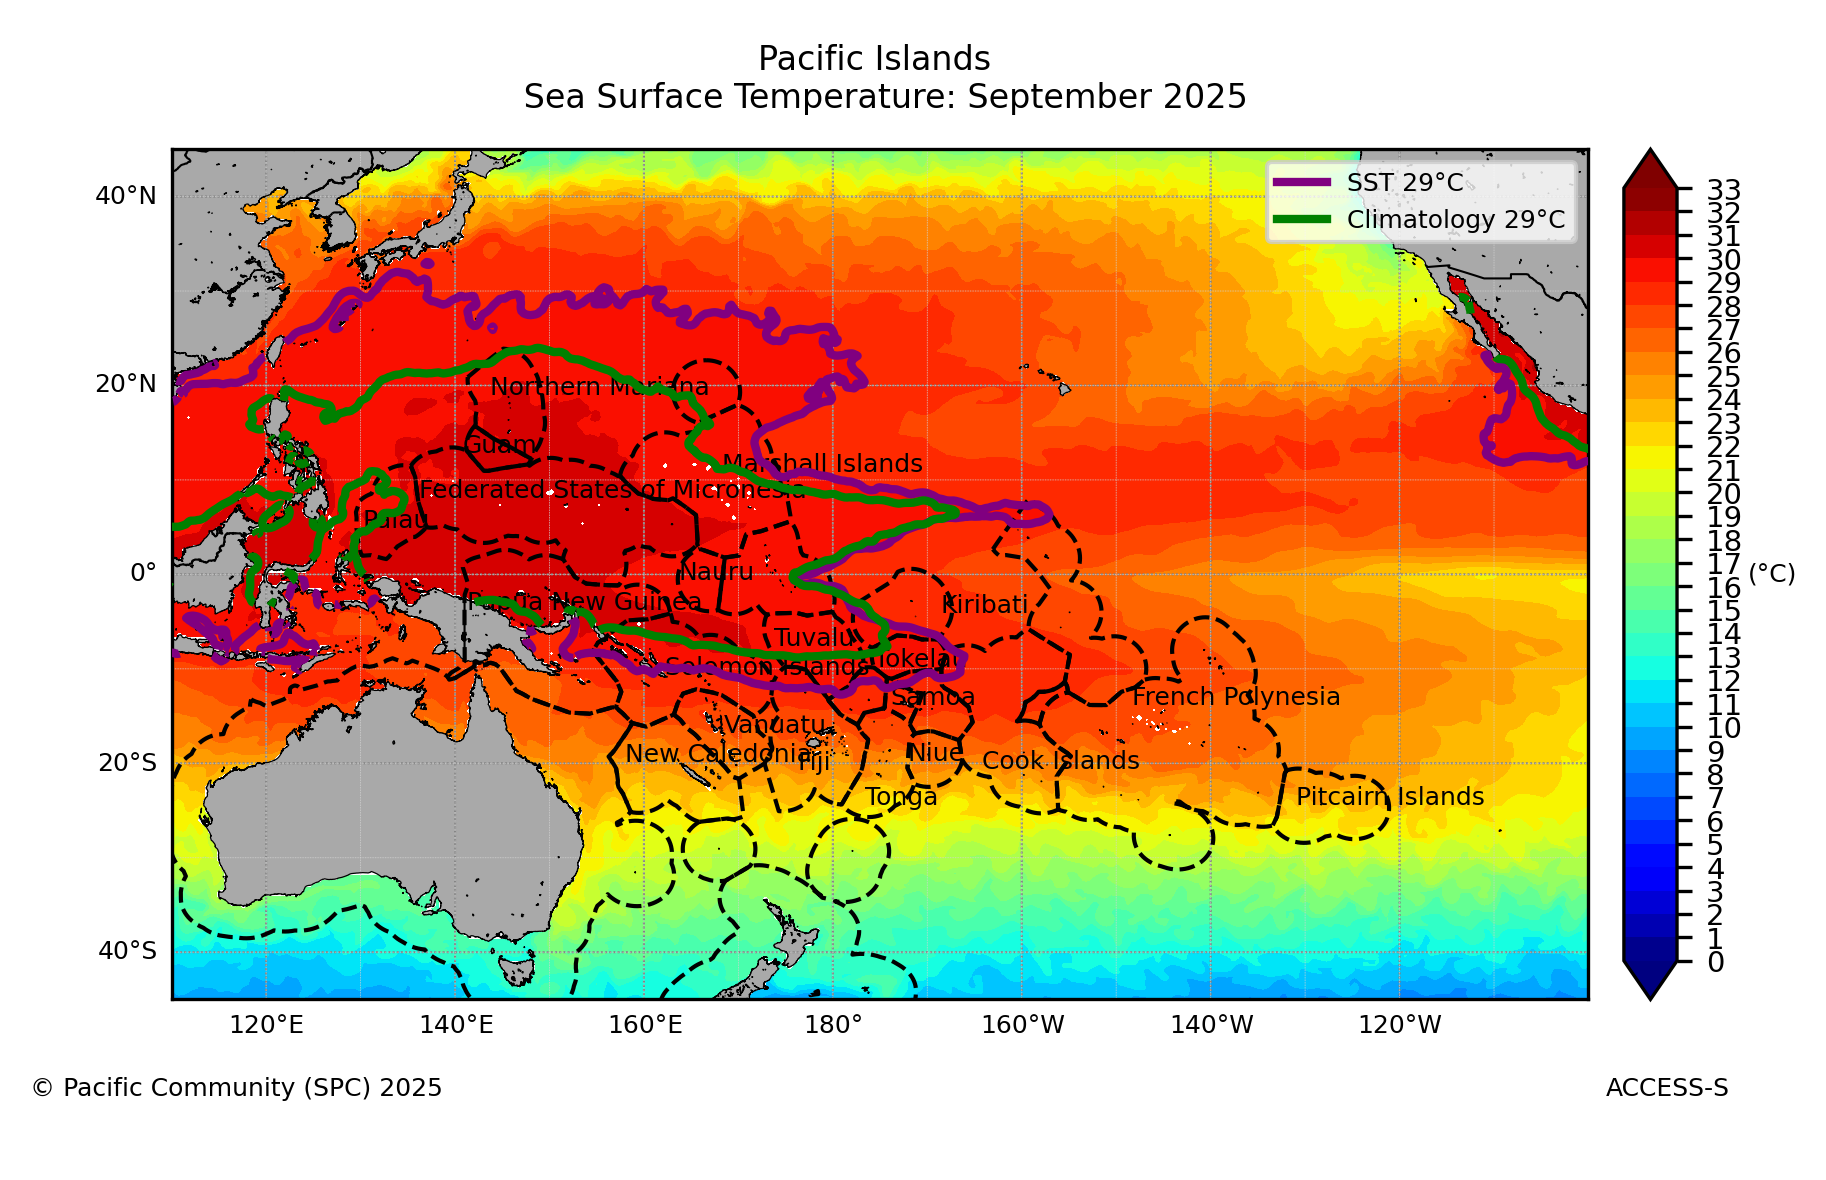
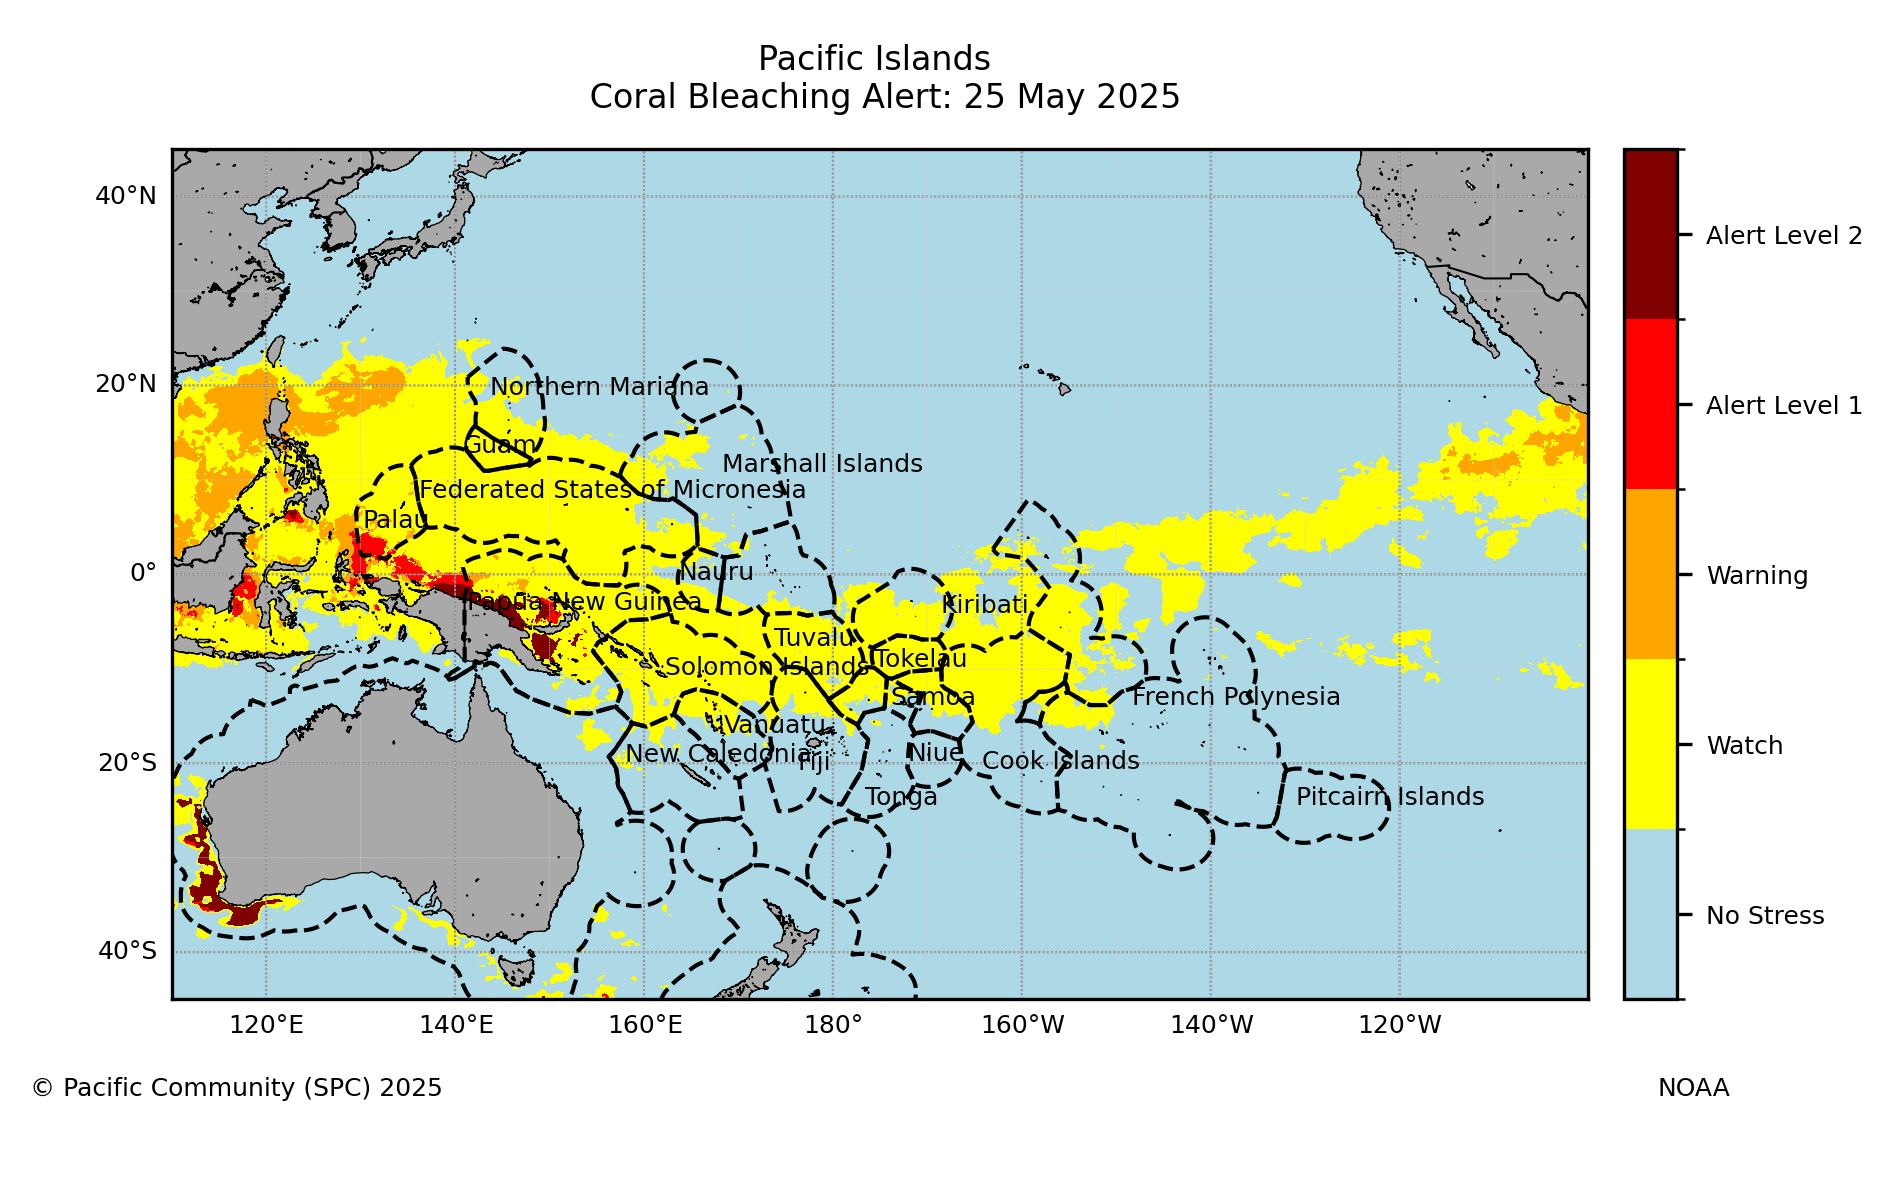
fixed cbar for outlook

diff --git a/app/main.py b/app/main.py
@@ -312,7 +312,7 @@ async def generate_plot_2(request: Request,region: int = 1,layer_map: int = 2,ti
                     extract_from_dap_ugrid=Plotter.extract_from_dap_ugrid, # your function here
                     west_bound=west_bound
                 )
-        if cbar is not None:
+        if cbar is not None and plot_type != "discrete":
             cbar.ax.yaxis.set_major_formatter(FormatStrFormatter('%6.1f'))
             for t in cbar.ax.get_yticklabels():
                 t.set_horizontalalignment('left')
